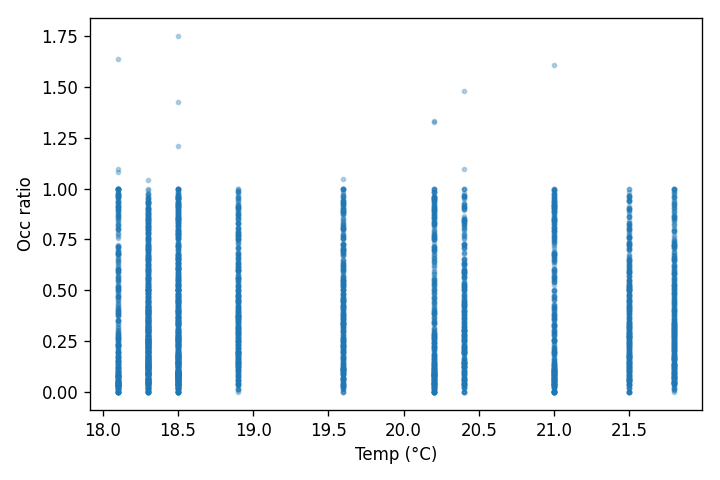
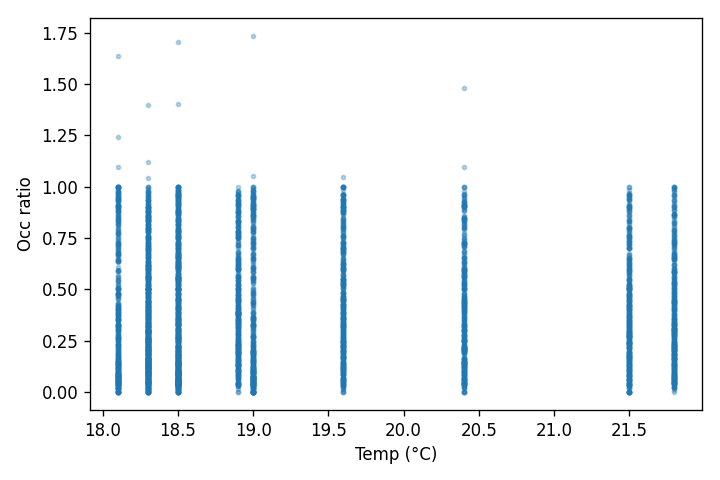
fix: encapsulate weather backfill in hourly_occupancy

diff --git a/src/aggregate.py b/src/aggregate.py
@@ -1,18 +1,18 @@
-# src/aggregate.py (extrait)
-import duckdb, pandas as pd
-from src.weather import fetch_history
-from src.weather import fetch_forecast
-
+# src/aggregate.py
+import os
+import duckdb
+import pandas as pd
+from src.weather import fetch_history, fetch_forecast
 
 CON = duckdb.connect("warehouse.duckdb")
 
 def _to_utc_naive_hour(x):
-    s = pd.to_datetime(x, errors="coerce", utc=True)
+    dt = pd.to_datetime(x, errors="coerce", utc=True)
+    # Series vs DatetimeIndex
     try:
-        s = s.dt.floor("h").dt.tz_localize(None)
+        return dt.dt.floor("h").dt.tz_localize(None)
     except AttributeError:
-        s = s.floor("h").tz_localize(None)  # DatetimeIndex
-    return s
+        return dt.floor("h").tz_localize(None)
 
 def hourly_occupancy(with_weather: bool = True) -> pd.DataFrame:
     q = """
@@ -40,12 +40,12 @@ def hourly_occupancy(with_weather: bool = True) -> pd.DataFrame:
       SELECT
         date_trunc('hour', ts_utc) AS hour_utc,
         stationcode,
-        any_value(name) AS name,
-        avg(occ_ratio) AS occ_ratio_hour,
-        avg(bikes) AS bikes_avg,
-        avg(docks) AS docks_avg,
-        any_value(lat) AS lat,
-        any_value(lon) AS lon
+        any_value(name)  AS name,
+        avg(occ_ratio)   AS occ_ratio_hour,
+        avg(bikes)       AS bikes_avg,
+        avg(docks)       AS docks_avg,
+        any_value(lat)   AS lat,
+        any_value(lon)   AS lon
       FROM enriched
       GROUP BY 1,2
     )
@@ -56,11 +56,11 @@ def hourly_occupancy(with_weather: bool = True) -> pd.DataFrame:
     if df.empty:
         return df
 
-    # 1) Normaliser -> UTC naïf, arrondi heure
+    # Normalise clé de jointure : UTC naïf, arrondi à l’heure
     df["hour_utc"] = _to_utc_naive_hour(df["hour_utc"])
 
     if with_weather:
-        # 2) Récup histoire météo sur la fenêtre utile
+        # 1) Historique météo sur la fenêtre utile
         w = pd.DataFrame(columns=["hour_utc","temp_C","precip_mm","wind_mps"])
         try:
             wf = fetch_history(df["hour_utc"].min(), df["hour_utc"].max())
@@ -69,43 +69,42 @@ def hourly_occupancy(with_weather: bool = True) -> pd.DataFrame:
         except Exception as e:
             print(f"[weather] fetch_history failed: {e}")
 
-        # 3) Normaliser aussi côté météo (défensif)
         if not w.empty:
             w["hour_utc"] = _to_utc_naive_hour(w["hour_utc"])
-            # 4) Jointure
             df = df.merge(w, on="hour_utc", how="left")
         else:
             for c in ["temp_C","precip_mm","wind_mps"]:
                 if c not in df.columns:
                     df[c] = pd.NA
 
+        # 2) Backfill via prévision pour combler des trous récents
+        try:
+            if df[["temp_C","precip_mm","wind_mps"]].isna().any(axis=1).any():
+                fx_start = pd.to_datetime(df["hour_utc"].max())  # déjà naïf
+                wf = fetch_forecast(fx_start, 24)
+                if not wf.empty:
+                    wf["hour_utc"] = _to_utc_naive_hour(wf["hour_utc"])
+                    df = df.merge(wf, on="hour_utc", how="left", suffixes=("", "_fx"))
+                    for c in ["temp_C","precip_mm","wind_mps"]:
+                        if c in df.columns and f"{c}_fx" in df.columns:
+                            df[c] = df[c].fillna(df[f"{c}_fx"])
+                    drop = [c for c in ["temp_C_fx","precip_mm_fx","wind_mps_fx"] if c in df.columns]
+                    if drop:
+                        df.drop(columns=drop, inplace=True)
+        except Exception as e:
+            print(f"[weather] forecast backfill skipped: {e}")
+
     return df
 
-try:
-    missing = df[["temp_C","precip_mm","wind_mps"]].isna().any(axis=1).any()
-    if missing:
-        fx_start = pd.Timestamp.utcnow().floor("h").tz_localize(None)
-        wf = fetch_forecast(fx_start, 24)
-        if not wf.empty:
-            wf["hour_utc"] = wf["hour_utc"]  # déjà normalisé
-            df = df.merge(wf, on="hour_utc", how="left", suffixes=("", "_fx"))
-            for c in ["temp_C","precip_mm","wind_mps"]:
-                df[c] = df[c].fillna(df.get(f"{c}_fx"))
-            dropcols = [c for c in ["temp_C_fx","precip_mm_fx","wind_mps_fx"] if c in df.columns]
-            if dropcols: df.drop(columns=dropcols, inplace=True)
-except Exception as e:
-    print(f"[weather] forecast backfill skipped: {e}")
-
-
 if __name__ == "__main__":
-    import os
     os.makedirs("exports", exist_ok=True)
     out = hourly_occupancy(with_weather=True)
     if not out.empty:
+        # Parquet (pyarrow/fastparquet sinon fallback DuckDB)
         try:
             out.to_parquet("exports/velib_hourly.parquet", index=False)
         except Exception:
-            duckdb.register("out", out)
-            duckdb.sql("COPY out TO 'exports/velib_hourly.parquet' (FORMAT PARQUET);")
+            duckdb.register("out_tbl", out)
+            duckdb.sql("COPY out_tbl TO 'exports/velib_hourly.parquet' (FORMAT PARQUET);")
         out.to_csv("exports/velib_hourly.csv", index=False)
     print("OK hourly -> exports/velib_hourly.parquet (et .csv)")
